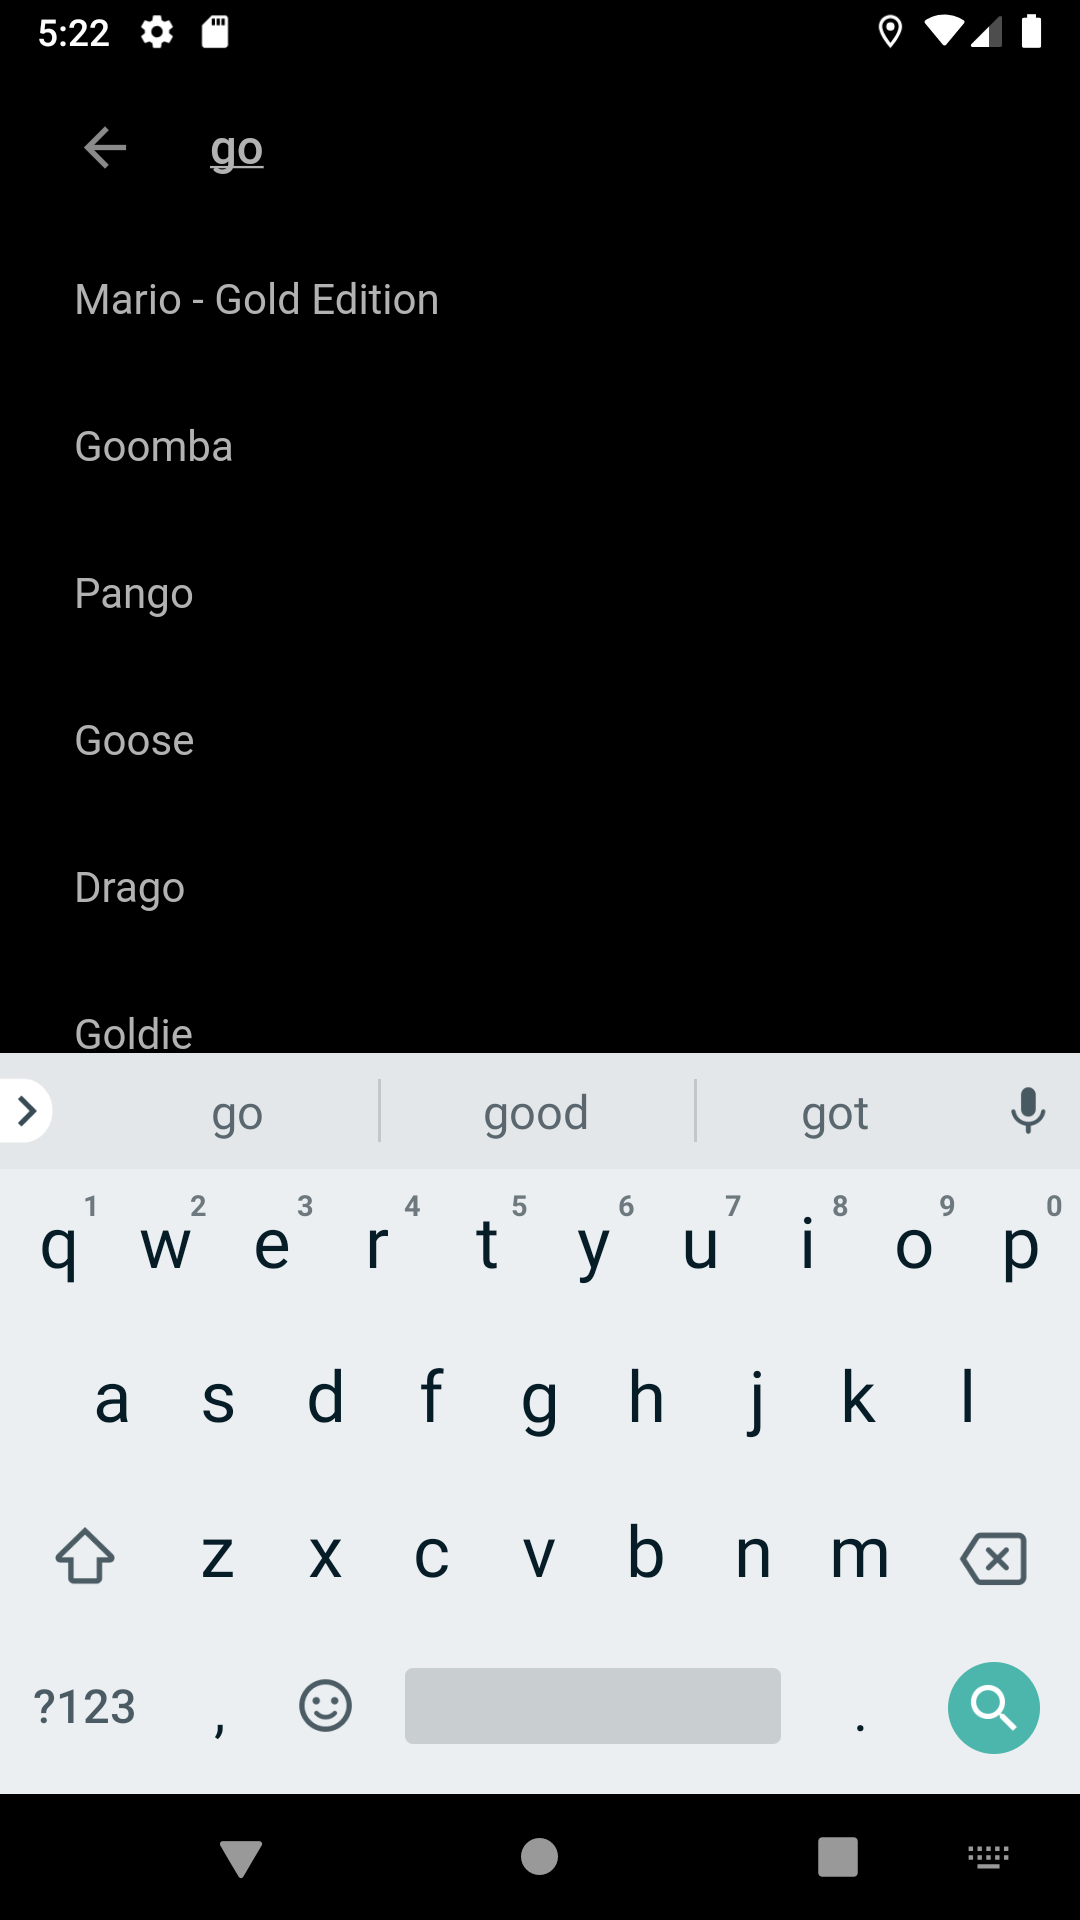
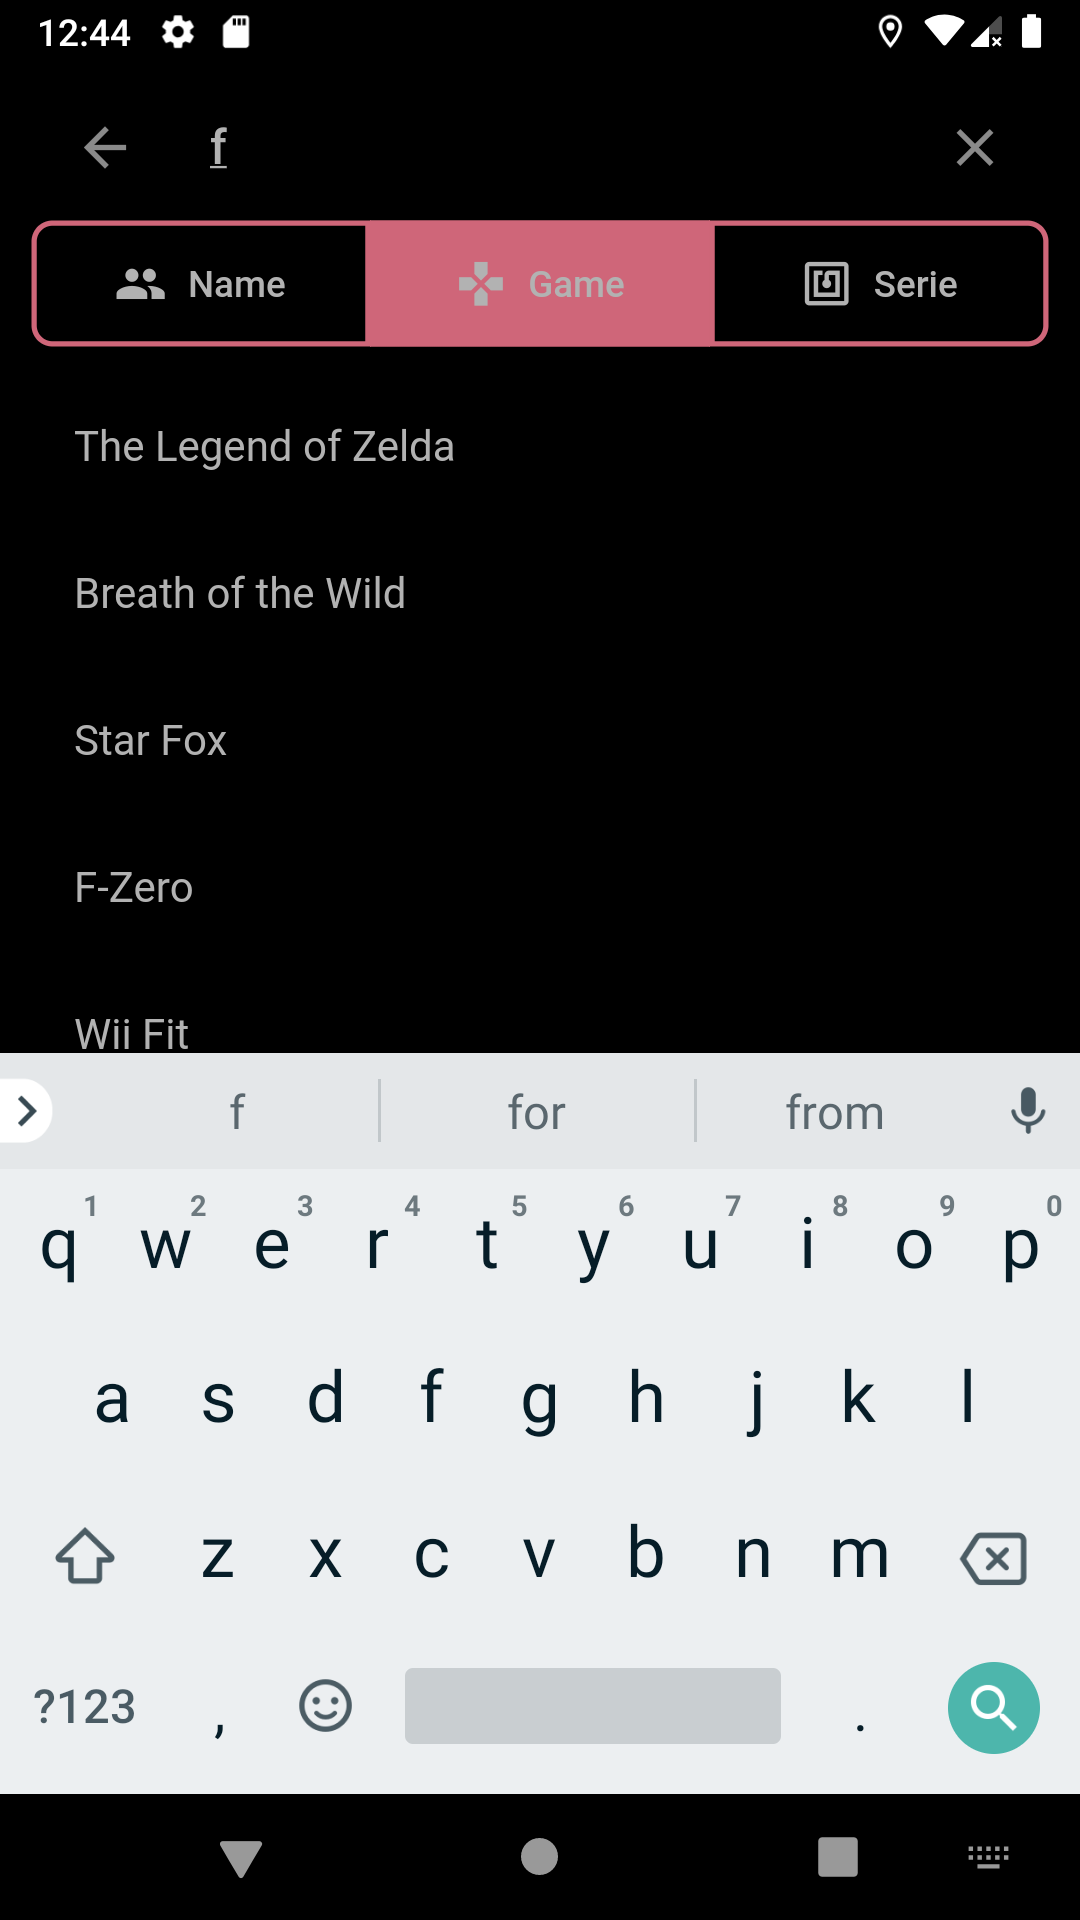
Updated screenshots and README

diff --git a/README.md b/README.md
@@ -2,7 +2,21 @@
 
 <a href='https://play.google.com/store/apps/details?hl=en_US&id=com.dartz.amiibo_network&pcampaignid=MKT-Other-global-all-co-prtnr-py-PartBadge-Mar2515-1'><img alt='Get it on Google Play' src='https://play.google.com/intl/en_us/badges/images/generic/en_badge_web_generic.png' width=150/></a>
 
-An Amiibo collection app with a wishlist and personal collection, search bar to search by name and category list to see each type of amiibo.
+An Amiibo collection app with a wishlist and personal collection, screenshot mode to save your collection and stats, so you can always show your amazing Amiibo collection!
+
+Features:
+- Owned collection and wishlist at top of the screen to always check your stats
+- See your stats as you want, percentage or ratio switch button from the drawer
+- Tap once on an amiibo to add it to your collection, again to your wished list, and last to remove it.
+- Double tap to see the detail of any amiibo, release date, character name, game or add it directly to any list you want from there
+- Long tap to start selecting multiple amiibos and add it or remove it of any list you want at once
+- Category list drawer to show by All, Owned, Wished, Stats or by amiibo series split by figures and cards
+- Personal stats split by All, figures and cards. Take a screenshot of your stat at any time and save it for later as a picture in your download folder
+- Search bar improved, so you can search by name, game or amiibo series
+- Order the list based on what you think it's more important, the release date of any of the 4 regions, your owned, wished or name
+- Auto mode theme (only for some Android 9 and Android 10 devices) or manually select your preferred mode, light or dark
+- Multiple light and dark themes to select from the drawer or settings. Tap the theme icon in the drawer to change between light, dark or auto mode or just long press the theme icon to visualize all the themes and select your preferred one or go to settings and select appearance
+- Save your collection as a picture in your download folder, reset your collection or import/export your collection data (useful when changing device) all from settings
 
 DISCLAIMER
 Amiibo Network is an unofficial app for collectors and fans of amiibo and is intended to be used for informational and educational purposes only.
